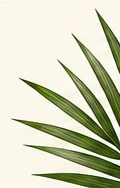
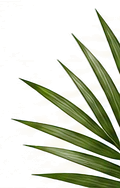
fix(mobile): page d'accueil sans debordement (360/390/320 px)
- topbar: bouton menu de nouveau visible (libelle court, sous-titre masque sur petits ecrans)
- hero: grille a une colonne qui peut retrecir, pastilles flottantes ramenees dans l'ecran
- section Templates: decors transparents, points de pagination petits, boutons du panneau sur toute la largeur

diff --git a/src/components/landing/TemplatesShowcase.tsx b/src/components/landing/TemplatesShowcase.tsx
@@ -207,20 +207,18 @@ export function TemplatesShowcase() {
         alt=""
         aria-hidden="true"
         className="pointer-events-none absolute left-0 bottom-0 w-[120px] sm:w-[200px] lg:w-[240px] opacity-90"
-        style={{ mixBlendMode: "multiply" }}
       />
       <img
         src="/landing/palm-br.webp"
         alt=""
         aria-hidden="true"
-        className="pointer-events-none absolute right-0 w-[70px] sm:w-[100px] lg:w-[120px] top-[150px] -scale-y-100 lg:top-auto lg:bottom-0 lg:scale-y-100"
-        style={{ mixBlendMode: "multiply" }}
+        className="pointer-events-none absolute right-0 w-[56px] sm:w-[100px] lg:w-[120px] top-[96px] -scale-y-100 lg:top-auto lg:bottom-0 lg:scale-y-100"
       />
 
       <div className="relative max-w-[1500px] mx-auto px-5 sm:px-8 lg:px-12 pt-14 pb-24 lg:pt-16 lg:pb-28">
         <div className="grid lg:grid-cols-[minmax(0,1.08fr)_minmax(0,1fr)_290px] gap-x-6 gap-y-8 items-start">
           {/* ---------- Colonne gauche ---------- */}
-          <div className="lg:col-start-1 lg:row-start-1 min-w-0 order-1">
+          <div className="lg:col-start-1 lg:row-start-1 min-w-0 order-1 relative z-10">
             <p
               className="flex items-center gap-2 text-[12px] sm:text-[13px] font-bold uppercase tracking-[0.16em]"
               style={{ color: C.accent }}
@@ -311,7 +309,7 @@ export function TemplatesShowcase() {
                     </span>
                     <span className="mt-2.5 flex items-start justify-between gap-2 px-0.5">
                       <span className="min-w-0">
-                        <span className="block text-[15px] font-semibold leading-tight truncate">
+                        <span className="block text-[15px] font-semibold leading-tight">
                           {t.name}
                         </span>
                         <span
@@ -353,12 +351,16 @@ export function TemplatesShowcase() {
                     key={t.id}
                     aria-label={`Voir ${t.name}`}
                     onClick={() => setSelectedId(t.id)}
-                    className="h-2 rounded-full transition-all"
-                    style={{
-                      width: i === activeIndex ? 26 : 8,
-                      background: i === activeIndex ? C.accent : "#e3d2c2",
-                    }}
-                  />
+                    className="grid place-items-center"
+                  >
+                    <span
+                      className="block h-2 rounded-full transition-all"
+                      style={{
+                        width: i === activeIndex ? 26 : 8,
+                        background: i === activeIndex ? C.accent : "#e3d2c2",
+                      }}
+                    />
+                  </button>
                 ))}
             </div>
           </div>
@@ -388,7 +390,7 @@ export function TemplatesShowcase() {
             </div>
 
             <ul
-              className="space-y-4 row-span-2 col-start-2 row-start-1 lg:order-2 lg:mt-5 lg:pt-5 lg:border-t"
+              className="space-y-4 col-start-2 row-start-1 lg:order-2 lg:mt-5 lg:pt-5 lg:border-t"
               style={{ borderColor: C.line }}
             >
               {selected.features.map((f) => (
@@ -412,7 +414,7 @@ export function TemplatesShowcase() {
               ))}
             </ul>
 
-            <div className="flex flex-col gap-3 lg:order-3 lg:mt-7 self-end lg:self-auto">
+            <div className="flex flex-col gap-3 col-span-2 row-start-2 lg:order-3 lg:mt-7">
               <Link
                 to="/auth/inscription"
                 search={{ plan: "trial", template: selected.id }}

diff --git a/src/components/landing/Topbar.tsx b/src/components/landing/Topbar.tsx
@@ -62,7 +62,7 @@ export function Topbar() {
     >
       <div className="max-w-7xl mx-auto px-4 sm:px-6 flex items-center justify-between gap-3">
         {/* LOGO WITH TERRACOTTA GLOW */}
-        <Link to="/" className="flex items-center gap-2.5 group shrink-0">
+        <Link to="/" className="flex items-center gap-2 sm:gap-2.5 group min-w-0">
           <div className="relative">
             <motion.div className="absolute -inset-1 rounded-xl bg-terracotta/25 blur-md opacity-0 group-hover:opacity-100 transition-opacity duration-300" />
             <img
@@ -73,11 +73,11 @@ export function Topbar() {
               className="relative w-10 h-10 sm:w-11 sm:h-11 rounded-xl object-contain border border-terracotta/25 bg-card"
             />
           </div>
-          <div className="flex flex-col leading-tight">
+          <div className="flex flex-col leading-tight min-w-0 max-[339px]:hidden">
             <strong className="text-base font-black tracking-tight text-foreground group-hover:text-terracotta-deep transition-colors">
               RestoBF
             </strong>
-            <small className="text-[10px] text-muted-foreground font-medium">
+            <small className="hidden min-[400px]:block text-[10px] text-muted-foreground font-medium">
               Pour les restaurateurs
             </small>
           </div>
@@ -120,7 +120,7 @@ export function Topbar() {
         </nav>
 
         {/* RIGHT ACTION BUTTONS */}
-        <div className="flex items-center gap-2.5">
+        <div className="flex items-center gap-2 sm:gap-2.5 shrink-0">
           {/* Connexion Button */}
           <Link
             to="/auth"
@@ -138,7 +138,8 @@ export function Topbar() {
             icon={<ArrowRight className="w-3.5 h-3.5" />}
             className="shadow-[0_6px_18px_rgba(159,60,22,0.25)]"
           >
-            Créer mon restaurant
+            <span className="sm:hidden">Créer mon site</span>
+            <span className="hidden sm:inline">Créer mon restaurant</span>
           </Interactive3DButton>
 
           {/* Hamburger Mobile Toggle */}

diff --git a/src/routes/index.tsx b/src/routes/index.tsx
@@ -13,14 +13,7 @@ import { useState, useEffect, useRef } from "react";
 import { motion, useScroll, useSpring } from "motion/react";
 import { useIsMobile } from "@/hooks/use-mobile";
 import { supabase } from "@/integrations/supabase/client";
-import {
-  ArrowRight,
-  ShieldCheck,
-  Zap,
-  MessageCircle,
-  Store,
-  Star,
-} from "lucide-react";
+import { ArrowRight, ShieldCheck, Zap, MessageCircle, Store, Star } from "lucide-react";
 
 function AnimatedStat({ value }: { value: string }) {
   const ref = useRef<HTMLDivElement | null>(null);
@@ -190,13 +183,13 @@ function LandingPage() {
       <main className="relative z-10">
         {/* HERO SECTION WITH 3D MOTION DESIGN */}
         <section className="pt-32 pb-20 px-4 sm:px-6 relative overflow-hidden">
-          <div className="max-w-7xl mx-auto grid lg:grid-cols-12 gap-12 items-center">
+          <div className="max-w-7xl mx-auto grid grid-cols-1 lg:grid-cols-12 gap-12 items-center">
             {/* Hero Left Content */}
             <motion.div
               initial={{ opacity: 0, x: -40 }}
               animate={{ opacity: 1, x: 0 }}
               transition={{ duration: 0.8, ease: [0.16, 1, 0.3, 1] }}
-              className="lg:col-span-6 space-y-6 text-left"
+              className="lg:col-span-6 space-y-6 text-left min-w-0"
             >
               {/* Badge */}
               <motion.div
@@ -285,7 +278,7 @@ function LandingPage() {
               initial={{ opacity: 0, scale: 0.9, y: 30 }}
               animate={{ opacity: 1, scale: 1, y: 0 }}
               transition={{ duration: 0.9, delay: 0.2, ease: [0.16, 1, 0.3, 1] }}
-              className="lg:col-span-6"
+              className="lg:col-span-6 min-w-0"
             >
               <InteractiveDashboard3D />
             </motion.div>

diff --git a/src/components/landing/InteractiveDashboard3D.tsx b/src/components/landing/InteractiveDashboard3D.tsx
@@ -79,7 +79,7 @@ export function InteractiveDashboard3D() {
       />
 
       {/* Floating 3D Badge 1 - Top Right */}
-      <div className="float-badge float-badge-a absolute -top-6 -right-4 sm:-right-8 z-30 px-3.5 py-2 rounded-xl bg-card border border-terracotta/30 text-foreground shadow-card flex items-center gap-2.5 text-xs font-semibold">
+      <div className="float-badge float-badge-a absolute -top-6 right-1 sm:-right-8 z-30 px-3.5 py-2 rounded-xl bg-card border border-terracotta/30 text-foreground shadow-card flex items-center gap-2.5 text-xs font-semibold">
         <div className="w-7 h-7 rounded-lg bg-terracotta-tint flex items-center justify-center text-terracotta-deep">
           <MessageSquare className="w-4 h-4" />
         </div>
@@ -92,7 +92,7 @@ export function InteractiveDashboard3D() {
       </div>
 
       {/* Floating 3D Badge 2 - Bottom Left */}
-      <div className="float-badge float-badge-b absolute -bottom-6 -left-4 sm:-left-8 z-30 px-3.5 py-2 rounded-xl bg-card border border-emerald/30 text-foreground shadow-card flex items-center gap-2.5 text-xs font-semibold">
+      <div className="float-badge float-badge-b absolute -bottom-6 left-1 sm:-left-8 z-30 px-3.5 py-2 rounded-xl bg-card border border-emerald/30 text-foreground shadow-card flex items-center gap-2.5 text-xs font-semibold">
         <div className="w-7 h-7 rounded-lg bg-emerald-tint flex items-center justify-center text-emerald-deep">
           <ChefHat className="w-4 h-4" />
         </div>
